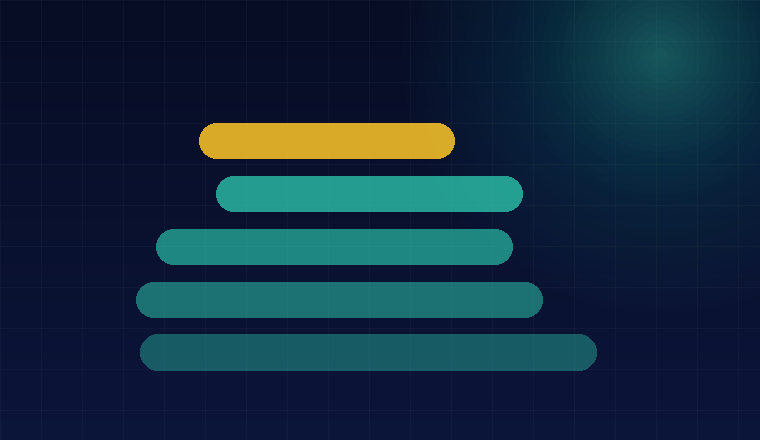
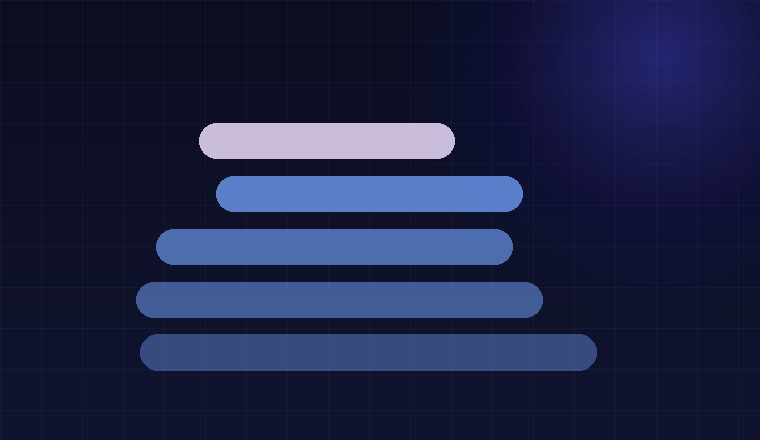
matchfast: move the page onto the official brand sheet palette
The brand sheet names four colours. The page now uses those and nothing
else:

  Royal Blue      #4136C3   Primary
  Deep Indigo     #3E3183   Secondary 01
  Lavender Mist   #E8D7F8   Secondary 02
  Cornflower Blue #74A3FF   Secondary 03

Worth recording: the mint #2ED3B5 the previous build used is the live
site's most-used accent, 53 occurrences in its stylesheet, but it does
not appear anywhere on the brand sheet. The live implementation and the
brand are not the same thing. The sheet wins; the mint is gone.

One job per colour, because three of the four cannot do every job:

- Royal Blue is the primary action fill. White on it is 8.3:1, but as
  text on the page floor it is 2.3:1, so it is never text.
- Cornflower Blue carries everything accented that is text: links,
  figures, rail titles, rules. 7.7:1 on the floor.
- Deep Indigo is surfaces and borders. 1.8:1 as text, so never text.
- Lavender Mist is the rating figure, 14.1:1, which keeps a rating from
  sharing a colour with a link. It replaces the amber the previous build
  used, which was also off-sheet.

Surfaces are derived from Deep Indigo: #0B0E20 floor, #101329 (the brand
sheet's own background), #1A1A47 cards, #252356 hover.

All ten pieces of card artwork regenerated on the new palette. The five
product marks are unchanged, since those are each vendor's own.

Type is unchanged: DM Sans and Inter, per the earlier instruction. Note
the brand sheet specifies Space Grotesk for titles with DM Sans for
[…]

Changed region(s): [[0.1816, 0.2659, 0.7868, 0.8568], [0.7263, 0.0, 0.9987, 0.3545]]

diff --git a/matchfast/index.html b/matchfast/index.html
@@ -12,8 +12,9 @@
 /* Hallmark · pre-emit critique: P5 H5 E5 S5 R4 V5
  * macrostructure: Ecosystem Index · genre: modern-minimal (dark)
  * nav: N11 mega-menu · footer: Ft7 newsletter-first
- * theme: custom · vibe: "navy directory floor, mint data accent"
- *   paper oklch(16% .05 266) #070D24 · accent oklch(77% .13 173) #2ED3B5
+ * theme: brand sheet · vibe: "indigo directory floor, cornflower data accent"
+ *   paper #0B0E20 · Royal Blue #4136C3 (fill) · Cornflower #74A3FF (text)
+ *   Deep Indigo #3E3183 (surface) · Lavender Mist #E8D7F8 (ratings)
  *   display DM Sans · body Inter
  *   axes: paper-band=dark · display-style=grotesk-sans · accent-hue=chromatic-other
  * enrichment: none (CSS-art category tiles, Tier A) · reveal: none, per macro
@@ -27,11 +28,12 @@
 /* ---- tokens inlined so the page is a single portable file; the canonical
         copy is matchfast/tokens.css and the two must stay in step ---- */
 :root{
-  --color-paper:#070D24;--color-paper-2:#0B1437;--color-paper-3:#0F1A4A;--color-paper-4:#152057;
-  --color-ink:#FFFFFF;--color-text:#E2E8F0;--color-muted:#B6BDD0;--color-faint:#9AA6BA;
-  --color-accent:#2ED3B5;--color-accent-deep:#14B8A6;--color-accent-ink:#07332B;
-  --color-rating:#FFC727;--color-royal:#4F46FF;
-  --color-rule:rgba(46,211,181,.20);--color-rule-2:rgba(255,255,255,.08);--color-focus:#2ED3B5;
+  --color-paper:#0B0E20;--color-paper-2:#101329;--color-paper-3:#1A1A47;--color-paper-4:#252356;
+  --color-ink:#FFFFFF;--color-text:#E6E4F5;--color-muted:#B4B0D4;--color-faint:#9D99C2;
+  --color-cta:#4136C3;--color-cta-hover:#5247D8;--color-cta-ink:#FFFFFF;
+  --color-accent:#74A3FF;--color-accent-ink:#0B0E20;--color-indigo:#3E3183;
+  --color-rating:#E8D7F8;
+  --color-rule:rgba(116,163,255,.22);--color-rule-2:rgba(255,255,255,.08);--color-focus:#74A3FF;
   --font-display:"DM Sans",ui-sans-serif,system-ui,sans-serif;
   --font-body:"Inter",ui-sans-serif,system-ui,sans-serif;
   --text-display:clamp(38px,5.4vw,68px);--text-display-s:clamp(32px,4.2vw,52px);
@@ -66,7 +68,7 @@ button,input,textarea,select,svg{font-family:inherit}
 img{max-width:100%;display:block}
 a{color:inherit;text-decoration:none}
 ul,ol{list-style:none}
-::selection{background:var(--color-accent);color:var(--color-accent-ink)}
+::selection{background:var(--color-cta);color:var(--color-cta-ink)}
 :focus-visible{outline:2px solid var(--color-focus);outline-offset:3px;border-radius:var(--radius-sm)}
 
 .wrap{max-width:var(--page);margin:0 auto;padding-inline:var(--gut)}
@@ -136,8 +138,8 @@ h3{font-size:var(--text-xl);font-weight:500;line-height:1.3;letter-spacing:-.014
              transform var(--dur-fast) var(--ease-out);
 }
 .btn:active{transform:translateY(1px)}
-.btn-primary{background:var(--color-accent);color:var(--color-accent-ink)}
-.btn-primary:hover{background:var(--color-accent-deep)}
+.btn-primary{background:var(--color-cta);color:var(--color-cta-ink)}
+.btn-primary:hover{background:var(--color-cta-hover)}
 .btn-ghost{background:transparent;color:var(--color-text);border-color:var(--color-rule)}
 .btn-ghost:hover{background:var(--color-paper-3);border-color:var(--color-accent)}
 .btn[disabled]{opacity:.45;pointer-events:none}
@@ -157,7 +159,7 @@ h3{font-size:var(--text-xl);font-weight:500;line-height:1.3;letter-spacing:-.014
 .topbar .tb-r{margin-left:auto;display:flex;gap:var(--space-md)}
 @media (max-width:720px){.topbar .tb-r{display:none}}
 
-header{position:sticky;top:0;z-index:60;background:rgba(7,13,36,.92);backdrop-filter:blur(14px);-webkit-backdrop-filter:blur(14px)}
+header{position:sticky;top:0;z-index:60;background:rgba(11,14,32,.92);backdrop-filter:blur(14px);-webkit-backdrop-filter:blur(14px)}
 header.on{border-bottom:var(--rule-hair) solid var(--color-rule-2)}
 .nav{display:flex;align-items:center;gap:var(--space-lg);min-height:64px}
 .brand img{height:26px;width:auto}
@@ -394,7 +396,7 @@ input[type=range]:active::-webkit-slider-thumb{transform:scale(1.18)}
   padding-block:var(--space-md);border-bottom:var(--rule-hair) solid var(--color-rule-2);
   transition:opacity var(--dur-mid) var(--ease-out)
 }
-.slot.hi{background:linear-gradient(90deg,rgba(46,211,181,.09),transparent 62%);padding-inline:var(--space-sm);border-radius:var(--radius-sm)}
+.slot.hi{background:linear-gradient(90deg,rgba(116,163,255,.10),transparent 62%);padding-inline:var(--space-sm);border-radius:var(--radius-sm)}
 .slot .nm{font-family:var(--font-display);font-size:var(--text-xl);font-weight:500;letter-spacing:-.014em;min-width:0}
 .slot .sub{display:block;grid-column:1;font-size:var(--text-xs);color:var(--color-faint)}
 .slot .sc{grid-row:1 / span 2;grid-column:2;text-align:right;font-family:var(--font-display);font-size:var(--text-3xl);font-weight:500;letter-spacing:-.025em;font-variant-numeric:tabular-nums}
@@ -432,7 +434,7 @@ input[type=range]:active::-webkit-slider-thumb{transform:scale(1.18)}
 /* ======================== CHECKS ======================================= */
 .checks{display:grid;grid-template-columns:repeat(auto-fit,minmax(240px,1fr));gap:var(--space-md)}
 .ck{background:var(--color-paper-3);border:var(--rule-hair) solid var(--color-rule-2);border-radius:var(--radius-md);padding:var(--space-lg);display:flex;flex-direction:column;gap:var(--space-xs)}
-.ck .ic{width:34px;height:34px;border-radius:var(--radius-sm);background:rgba(46,211,181,.12);border:var(--rule-hair) solid var(--color-rule);color:var(--color-accent);display:grid;place-items:center;margin-bottom:var(--space-xs)}
+.ck .ic{width:34px;height:34px;border-radius:var(--radius-sm);background:rgba(116,163,255,.13);border:var(--rule-hair) solid var(--color-rule);color:var(--color-accent);display:grid;place-items:center;margin-bottom:var(--space-xs)}
 .ck .ic svg{width:17px;height:17px;stroke-width:2}
 
 /* ======================== MARQUEE ====================================== */
@@ -521,7 +523,7 @@ footer{border-top:var(--rule-hair) solid var(--color-rule);margin-top:var(--spac
 .rcard:hover .thumb img,.ecard:hover .thumb img{transform:scale(1.045);filter:saturate(1.08)}
 .thumb .pin{
   position:absolute;left:var(--space-sm);top:var(--space-sm);z-index:2;
-  background:rgba(7,13,36,.78);backdrop-filter:blur(6px);-webkit-backdrop-filter:blur(6px);
+  background:rgba(11,14,32,.80);backdrop-filter:blur(6px);-webkit-backdrop-filter:blur(6px);
   border:var(--rule-hair) solid var(--color-rule);border-radius:var(--radius-pill);
   padding:4px 10px
 }

diff --git a/matchfast/tokens.css b/matchfast/tokens.css
@@ -1,30 +1,41 @@
 /* Hallmark · tokens.css · MatchFast
- * Every value below is lifted from the live matchfast.co stylesheet, not invented.
- * Source: the --mf-* custom properties and the .mfdir2 / .bor-* directory CSS.
+ * Colour is the official brand sheet: Royal Blue #4136C3 (primary),
+ * Deep Indigo #3E3183, Cornflower Blue #74A3FF, Lavender Mist #E8D7F8.
+ * The live site's mint #2ED3B5 does not appear on that sheet and has been
+ * dropped. Every ratio below is measured against --color-paper.
  */
 :root{
-  /* ---- surfaces: the live radial navy stack ---------------------------- */
-  --color-paper:#070D24;          /* page floor, live gradient stop 3       */
-  --color-paper-2:#0B1437;        /* mid stop                               */
-  --color-paper-3:#0F1A4A;        /* card + panel surface, live stop 1      */
-  --color-paper-4:#152057;        /* hover surface                          */
+  /* ---- surfaces, derived from Deep Indigo ------------------------------ */
+  --color-paper:#0B0E20;          /* page floor                            */
+  --color-paper-2:#101329;        /* the brand sheet's own background      */
+  --color-paper-3:#1A1A47;        /* card and panel surface                */
+  --color-paper-4:#252356;        /* hover surface                         */
 
-  /* ---- ink. Ratios against --color-paper are in the comments ----------- */
-  --color-ink:#FFFFFF;            /* 17.7 */
-  --color-text:#E2E8F0;           /* 15.6 */
-  --color-muted:#B6BDD0;          /* 10.2 */
-  --color-faint:#9AA6BA;          /*  7.8 */
+  /* ---- ink. Ratios are against --color-paper. -------------------------- */
+  --color-ink:#FFFFFF;            /* 19.1 */
+  --color-text:#E6E4F5;           /* 15.3 */
+  --color-muted:#B4B0D4;          /*  9.2 */
+  --color-faint:#9D99C2;          /*  7.1 */
 
-  /* ---- accent. Mint is the live primary; amber is the live rating ------ */
-  --color-accent:#2ED3B5;         /* 10.2 */
-  --color-accent-deep:#14B8A6;    /* hover fill                            */
-  --color-accent-ink:#07332B;     /* 7.3 on mint, the live ink-on-mint     */
-  --color-rating:#FFC727;         /* 12.3 */
-  --color-royal:#4F46FF;          /* --mf-royal-blue, fills only           */
+  /* ---- the four brand colours, each given one job ---------------------- */
+  --color-cta:#4136C3;            /* Royal Blue, primary action fill only.
+                                     White on it is 8.3; as text on the page
+                                     floor it is 2.3, so it is never text.  */
+  --color-cta-hover:#5247D8;
+  --color-cta-ink:#FFFFFF;
+  --color-accent:#74A3FF;         /* Cornflower Blue, 7.7. Links, figures,
+                                     rules, every accent that is text.      */
+  --color-accent-ink:#0B0E20;     /* 7.7 on Cornflower, for a filled chip   */
+  --color-indigo:#3E3183;         /* Deep Indigo, surfaces and borders only;
+                                     1.8 as text, so never text.            */
+  --color-rating:#E8D7F8;         /* Lavender Mist, 14.1. Ratings, so the
+                                     figure never shares a colour with a
+                                     link. Replaces the off-brand amber.    */
 
-  --color-rule:rgba(46,211,181,.20);   /* the live teal-tinted hairline    */
+  --color-rule:rgba(116,163,255,.22);
   --color-rule-2:rgba(255,255,255,.08);
-  --color-focus:#2ED3B5;
+  --color-focus:#74A3FF;
+
 
   /* ---- type: two families, as instructed ------------------------------- */
   --font-display:"DM Sans",ui-sans-serif,system-ui,sans-serif;
